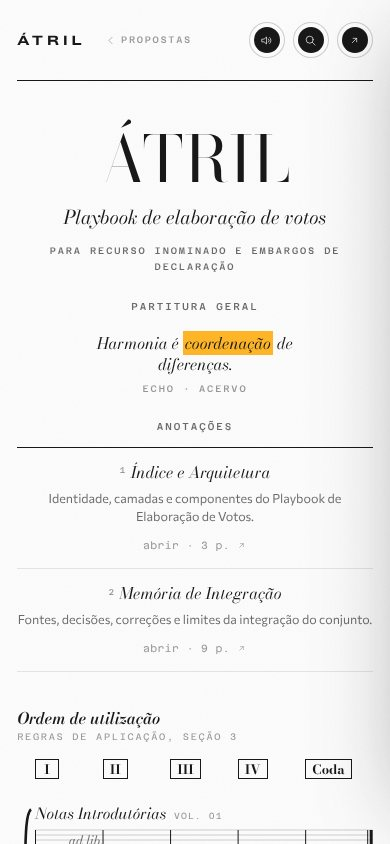
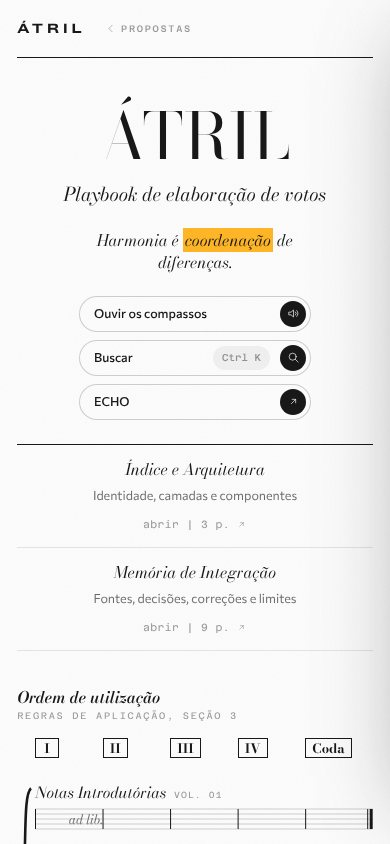
docs(atril): enxuga a folha de rosto da proposta B
- Elimina a instrumentação, o rótulo "Partitura geral", a assinatura
  "ECHO · Acervo", o título "Anotações" e a numeração das anotações.
- Encurta as anotações: "Identidade, camadas e componentes" e
  "Fontes, decisões, correções e limites".
- Ouvir, Buscar e ECHO saem da barra do topo e descem para a coluna
  da epígrafe; em tela de toque, o atalho Ctrl K some.
- Adota " | " como separador em toda a página.

Claude-Session: https://claude.ai/code/session_01GJcbAC3DcYgjKWACJqr4z9

diff --git a/assets/atril/fonte/propostas/b-partitura.html b/assets/atril/fonte/propostas/b-partitura.html
@@ -3,7 +3,7 @@
 <head>
 <meta charset="utf-8">
 <meta name="viewport" content="width=device-width, initial-scale=1, viewport-fit=cover">
-<title>ÁTRIL · Partitura geral</title>
+<title>ÁTRIL | Playbook de elaboração de votos</title>
 <link rel="preconnect" href="https://fonts.googleapis.com">
 <link rel="preconnect" href="https://fonts.gstatic.com" crossorigin>
 <link href="https://fonts.googleapis.com/css2?family=Azeret+Mono:wght@400;500&family=Bodoni+Moda:ital,opsz,wght@0,6..96,400..800;1,6..96,400..700&family=Commissioner:wght@300;400;500;600&family=Zalando+Sans+Expanded:wght@700&display=swap" rel="stylesheet">
@@ -52,21 +52,20 @@ button{font:inherit;color:inherit;background:none;border:0;padding:0;cursor:poin
 
 /* folha de rosto da partitura */
 .rosto{display:grid;grid-template-columns:minmax(170px,1fr) minmax(0,3.4fr) minmax(170px,1fr);align-items:start;gap:24px;padding:clamp(28px,6vh,72px) 0 clamp(26px,4.5vh,48px);border-top:1px solid var(--tinta)}
-.rosto-e{font:500 10px/1.7 var(--mono);letter-spacing:.2em;text-transform:uppercase;color:var(--grafite)}
-.epigrafe{margin-top:22px;max-width:24ch;font:italic 400 16px/1.35 var(--serif);color:var(--tinta);text-transform:none;letter-spacing:0}
+.epigrafe{margin:0;max-width:24ch;font:italic 400 16px/1.35 var(--serif);color:var(--tinta)}
 .epigrafe mark{background:var(--ambar);color:inherit;padding:0 .12em}
-.epigrafe small{display:block;margin-top:8px;font:500 9.5px/1 var(--mono);letter-spacing:.2em;text-transform:uppercase;color:var(--cinza)}
+.comandos{display:grid;gap:8px;width:min(100%,232px);margin-top:26px}
+.comandos .pil{justify-content:flex-start}
+.comandos .pil .t{margin-right:auto}
+@media (hover:none){.comandos kbd{display:none}}
 .titulo{text-align:center}
 .titulo h1{margin:0 auto;font:400 clamp(64px,9.6vw,156px)/.86 var(--serif);font-variation-settings:"opsz" 96;letter-spacing:.015em}
 .titulo .sub{margin:20px 0 0;font:italic 400 clamp(19px,2vw,30px)/1.2 var(--serif);color:var(--tinta)}
-.titulo .instr{margin:14px 0 0;font:500 9.5px/1.6 var(--mono);letter-spacing:.2em;text-transform:uppercase;color:var(--grafite)}
 .rosto-d{justify-self:end;width:min(100%,250px);text-align:right}
-.rosto-d .rot-a{display:block;margin-bottom:12px;font:500 10px/1.7 var(--mono);letter-spacing:.2em;text-transform:uppercase;color:var(--grafite)}
 .anot{list-style:none;margin:0;padding:0;border-top:1px solid var(--tinta)}
 .anot li{padding:12px 0 13px;border-bottom:1px solid var(--fio-2)}
 .anot .an{display:inline;font:italic 400 16px/1.25 var(--serif);transition:background .4s var(--mola)}
 .anot .an:hover,.anot .an:focus-visible,.anot .an[aria-current="page"]{background:linear-gradient(transparent 58%,var(--ambar) 58%,var(--ambar) 92%,transparent 92%)}
-.anot .an sup{font:500 8.5px/1 var(--mono);letter-spacing:.06em;color:var(--cinza);margin-right:5px;vertical-align:.5em}
 .anot p{margin:5px 0 6px;font:400 12.5px/1.45 var(--body);color:var(--grafite)}
 .anot .ab{display:inline-flex;align-items:center;gap:6px;font:400 10.5px/1 var(--mono);letter-spacing:.04em;color:var(--cinza);transition:color .4s var(--mola)}
 .anot .ab .ic{width:11px;height:11px}
@@ -193,12 +192,12 @@ button{font:inherit;color:inherit;background:none;border:0;padding:0;cursor:poin
   :root{--parte:0px}
   .voz .pt{display:none}
   .rosto{grid-template-columns:1fr;text-align:center}
-  .rosto-e,.rosto-d{text-align:center}.epigrafe{margin:18px auto 0}.rosto-d{justify-self:center;width:min(100%,360px)}
+  .rosto-e,.rosto-d{text-align:center}.epigrafe{margin:0 auto}.comandos{margin:22px auto 0}.rosto-d{justify-self:center;width:min(100%,360px)}
   .rosto-e{order:2}.titulo{order:1}.rosto-d{order:3}
 }
 @media (max-width:700px){
   :root{--nomes:0px;--chave:18px}
-  .pil .t,.pil kbd{display:none}.pil{padding:0 5px}
+  .parte-h .pil .t,.parte-h .pil kbd{display:none}.parte-h .pil{padding:0 5px}
   .voz{height:auto;grid-template-rows:auto 40px;padding-top:6px}
   .voz .nm{grid-column:2 / 4;grid-row:1;justify-self:start;padding:0 0 0 0;text-align:left}
   .voz .nm small{display:inline;margin-left:8px}
@@ -224,26 +223,25 @@ button{font:inherit;color:inherit;background:none;border:0;padding:0;cursor:poin
 <div class="pag">
   <header class="topo">
     <div style="display:flex;align-items:center;gap:18px"><a class="marca" href="#" aria-label="ÁTRIL, início">ÁTRIL</a><a class="volta" href="./"><svg class="ic" viewBox="0 0 24 24" aria-hidden="true"><path d="M15 6 9 12l6 6"/></svg>Propostas</a></div>
-    <div class="acoes">
-      <button class="pil" type="button" id="b-som" aria-pressed="false"><span class="t">Ouvir os compassos</span><span class="b"><svg class="ic" viewBox="0 0 24 24" aria-hidden="true"><path d="M4 9.5h3.5L12 5.5v13l-4.5-4H4z"/><path d="M15.5 9a4 4 0 0 1 0 6M18 6.5a7.5 7.5 0 0 1 0 11"/></svg></span></button>
-      <button class="pil" type="button" id="b-busca"><span class="t">Buscar</span><kbd>Ctrl K</kbd><span class="b"><svg class="ic" viewBox="0 0 24 24" aria-hidden="true"><circle cx="10.5" cy="10.5" r="6.5"/><path d="m15.5 15.5 5 5"/></svg></span></button>
-      <a class="pil" href="https://christiancozta.github.io/arco.html#echo"><span class="t">ECHO</span><span class="b"><svg class="ic" viewBox="0 0 24 24" aria-hidden="true"><path d="M8 16 16 8M9.5 8H16v6.5"/></svg></span></a>
-    </div>
   </header>
 
   <section class="rosto">
-    <div class="rosto-e">Partitura geral
-      <p class="epigrafe">Harmonia é <mark>coordenação</mark> de diferenças.<small>ECHO · Acervo</small></p>
+    <div class="rosto-e">
+      <p class="epigrafe">Harmonia é <mark>coordenação</mark> de diferenças.</p>
+      <nav class="comandos" aria-label="Comandos">
+        <button class="pil" type="button" id="b-som" aria-pressed="false"><span class="t">Ouvir os compassos</span><span class="b"><svg class="ic" viewBox="0 0 24 24" aria-hidden="true"><path d="M4 9.5h3.5L12 5.5v13l-4.5-4H4z"/><path d="M15.5 9a4 4 0 0 1 0 6M18 6.5a7.5 7.5 0 0 1 0 11"/></svg></span></button>
+        <button class="pil" type="button" id="b-busca"><span class="t">Buscar</span><kbd>Ctrl K</kbd><span class="b"><svg class="ic" viewBox="0 0 24 24" aria-hidden="true"><circle cx="10.5" cy="10.5" r="6.5"/><path d="m15.5 15.5 5 5"/></svg></span></button>
+        <a class="pil" href="https://christiancozta.github.io/arco.html#echo"><span class="t">ECHO</span><span class="b"><svg class="ic" viewBox="0 0 24 24" aria-hidden="true"><path d="M8 16 16 8M9.5 8H16v6.5"/></svg></span></a>
+      </nav>
     </div>
     <div class="titulo">
       <h1>ÁTRIL</h1>
       <p class="sub">Playbook de elaboração de votos</p>
-      <p class="instr">para Recurso Inominado e Embargos de Declaração</p>
     </div>
-    <aside class="rosto-d" aria-label="Anotações"><span class="rot-a">Anotações</span><ol class="anot" id="anot"></ol></aside>
+    <aside class="rosto-d" aria-label="Anotações"><ol class="anot" id="anot"></ol></aside>
   </section>
 
-  <section class="sistema" id="sistema" aria-label="Partitura geral do acervo">
+  <section class="sistema" id="sistema" aria-label="Partitura do acervo">
     <div class="coluna" id="coluna" aria-hidden="true"></div>
     <div class="batuta" id="batuta" aria-hidden="true"></div>
     <div class="linha cab">
@@ -254,7 +252,7 @@ button{font:inherit;color:inherit;background:none;border:0;padding:0;cursor:poin
     <div class="letra"><div class="linha"><div class="rot">Texto da ordem</div><div class="txt" id="letra"></div></div></div>
   </section>
 
-  <footer class="rodape"><span>Acervo do <b>ECHO</b> · Turma Recursal do TJPR</span><span><b>107</b> fundamentos · <b>2.758</b> assuntos · <b>730</b> dias de calendário · <b>6</b> modelos</span></footer>
+  <footer class="rodape"><span>Acervo do <b>ECHO</b> | Turma Recursal do TJPR</span><span><b>107</b> fundamentos | <b>2.758</b> assuntos | <b>730</b> dias de calendário | <b>6</b> modelos</span></footer>
 </div>
 
 <div class="veu" id="veu"></div>
@@ -278,7 +276,7 @@ var NAIPES=[
   {id:'vol-01',nome:'Notas Introdutórias',sub:'vol. 01',marca:'ad lib.',parte:'vol-01'},
   {id:'vol-02',nome:'Mapa Temático',sub:'vol. 02',marca:'ad lib.',parte:'vol-02'},
   {id:'vol-03',nome:'Afinação Processual',sub:'vol. 03',marca:'ad lib.',parte:'vol-03'},
-  {id:'guia',nome:'Guia de Estilo',sub:'vol. 04 · a forma',notas:[[4,23,'w'],[5,23,'w']],liga:[4,5],parte:'vol-04'}]},
+  {id:'guia',nome:'Guia de Estilo',sub:'vol. 04 | a forma',notas:[[4,23,'w'],[5,23,'w']],liga:[4,5],parte:'vol-04'}]},
  {n:'Governança',tipo:'colchete',vozes:[
   {id:'regras',nome:'Regras de Aplicação',sub:'coordena a ordem',notas:[[1,15.5],[2,15.5],[3,15.5],[4,15.5],[5,15.5]],parte:'pdf-regras'},
   {id:'criterios',nome:'Critérios Operacionais',sub:'ao final',notas:[[5,10.5]],parte:'pdf-criterios'}]},
@@ -290,6 +288,8 @@ var NAIPES=[
  ];
 /* Registro: fora do sistema, anotado à margem da folha de rosto. */
 var ANOT=[{id:'indice',parte:'pdf-indice'},{id:'memoria',parte:'pdf-memoria'}];
+P.indice=Object.assign({},P.indice,{lead:'Identidade, camadas e componentes'});
+P.memoria=Object.assign({},P.memoria,{lead:'Fontes, decisões, correções e limites'});
 var MARCAS=[['I','identificar'],['II','admissibilidade'],['III','fundamentos'],['IV','resultado'],['Coda','revisão']];
 var LETRA=A.passos.concat(['Ao final, aplicar os critérios operacionais e conferir a correspondência entre fundamentação, dispositivo e ementa.']);
 
@@ -300,13 +300,13 @@ $('#naipes').innerHTML=NAIPES.map(function(g){
   g.vozes.map(function(v){
     var p=v.parte?P[v.parte]:null;
     return '<div class="linha voz" data-id="'+v.id+'"><span></span><a class="nm" href="#'+v.id+'"><b>'+v.nome+'</b><small>'+v.sub+'</small></a><svg class="pauta" data-v="'+v.id+'" aria-hidden="true"></svg>'+
-      (p?'<a class="pt" href="'+p.url+'" target="_blank" rel="noopener" aria-label="Abrir '+v.nome+' em PDF, '+p.paginas+' páginas">abrir · '+p.paginas+' p. '+SETA+'</a>':'<span></span>')+'</div>';
+      (p?'<a class="pt" href="'+p.url+'" target="_blank" rel="noopener" aria-label="Abrir '+v.nome+' em PDF, '+p.paginas+' páginas">abrir | '+p.paginas+' p. '+SETA+'</a>':'<span></span>')+'</div>';
   }).join('')+'</div>';
 }).join('');
 var VOZ={}; NAIPES.forEach(function(g){g.vozes.forEach(function(v){v.naipe=g.n;VOZ[v.id]=v})});
 $('#anot').innerHTML=ANOT.map(function(a,i){var m=P[a.id],p=P[a.parte];
-  return '<li><a class="an" href="#'+a.id+'" data-id="'+a.id+'"><sup>'+(i+1)+'</sup>'+m.nome+'</a><p>'+m.lead+'</p>'+
-    '<a class="ab" href="'+p.url+'" target="_blank" rel="noopener" aria-label="Abrir '+m.nome+' em PDF, '+p.paginas+' páginas">abrir · '+p.paginas+' p. '+SETA+'</a></li>'}).join('');
+  return '<li><a class="an" href="#'+a.id+'" data-id="'+a.id+'">'+m.nome+'</a><p>'+m.lead+'</p>'+
+    '<a class="ab" href="'+p.url+'" target="_blank" rel="noopener" aria-label="Abrir '+m.nome+' em PDF, '+p.paginas+' páginas">abrir | '+p.paginas+' p. '+SETA+'</a></li>'}).join('');
 
 function desenha(){
   var svgs=document.querySelectorAll('svg.pauta');
@@ -392,10 +392,10 @@ function docHTML(m){
     return '<div class="sec"><h3>'+s[0]+'</h3><div class="princ">'+s[1].map(function(p){return '<div><b>'+p[0]+'</b><span>'+p[1]+'</span></div>'}).join('')+'</div></div>'}).join('')+'</div>';
   else corpo='<ol class="secoes">'+m.secoes.map(function(s){var k=s.indexOf('. ');return '<li><span>'+s.slice(0,k)+'</span>'+s.slice(k+2)+'</li>'}).join('')+'</ol>';
   return '<h2 class="p-t" id="p-t">'+m.nome+'</h2><p class="p-l">'+m.lead+'</p><div class="p-meta"><span>'+m.camada+'</span><span>'+m.secoes.length+' seções</span><span>05/10/2026</span></div><div class="regua"></div>'+corpo+
-  '<div class="botoes"><a class="cta" href="'+m.pdf.url+'" target="_blank" rel="noopener">Abrir o PDF · '+m.pdf.paginas+' p.<span class="b">'+SETA+'</span></a></div>';
+  '<div class="botoes"><a class="cta" href="'+m.pdf.url+'" target="_blank" rel="noopener">Abrir o PDF | '+m.pdf.paginas+' p.<span class="b">'+SETA+'</span></a></div>';
 }
 function volHTML(m){
-  return '<h2 class="p-t" id="p-t">'+m.nome+'</h2><p class="p-l">'+m.sub+'.</p><div class="p-meta"><span>Coleção da Turma Recursal</span><span>'+m.volume+'</span><span>PDF · '+m.paginas+' páginas</span></div><div class="regua"></div>'+
+  return '<h2 class="p-t" id="p-t">'+m.nome+'</h2><p class="p-l">'+m.sub+'.</p><div class="p-meta"><span>Coleção da Turma Recursal</span><span>'+m.volume+'</span><span>PDF | '+m.paginas+' páginas</span></div><div class="regua"></div>'+
   '<p class="nota" style="font-size:15px;color:var(--grafite)">Volume diagramado da coleção, para leitura contínua e impressão. Na partitura, os volumes tocam <i>ad libitum</i>: consultam-se a qualquer passo, fora da ordem.</p>'+
   '<div class="botoes"><a class="cta" href="'+m.url+'" target="_blank" rel="noopener">Abrir '+m.volume.toLowerCase()+'<span class="b">'+SETA+'</span></a>'+(m.le?'<a class="cta cl" href="#guia">Ler o Guia na tela<span class="b">'+SETA+'</span></a>':'')+'</div>';
 }
@@ -407,7 +407,7 @@ function ferrHTML(id){
   if(id==='fundamentos') return '<h2 class="p-t" id="p-t">Fundamentos</h2><p class="p-l">Repertório argumentativo com gatilhos, requisitos e limites.</p><div class="regua"></div>'+
     '<label class="busca"><input id="f-q" placeholder="negativação, voo, gratuidade" autocomplete="off" aria-label="Buscar fundamentos"><span id="f-ct"></span></label><ul class="lista" id="f-l"></ul>';
   if(id==='ementario') return '<h2 class="p-t" id="p-t">Ementário</h2><p class="p-l">Taxonomia, códigos, descrições e formulações de referência.</p><div class="regua"></div>'+
-    '<ul class="lista">'+A.ementario.map(function(e){return '<li><code>'+e.cod+'</code><div><b>'+e.desc+'</b><small>'+e.ramo+' · já abordado pela TR: '+e.tr+'</small></div></li>'}).join('')+'</ul><p class="nota">Amostra de 5 dos 2.758 registros neste protótipo.</p>';
+    '<ul class="lista">'+A.ementario.map(function(e){return '<li><code>'+e.cod+'</code><div><b>'+e.desc+'</b><small>'+e.ramo+' | já abordado pela TR: '+e.tr+'</small></div></li>'}).join('')+'</ul><p class="nota">Amostra de 5 dos 2.758 registros neste protótipo.</p>';
   return '<h2 class="p-t" id="p-t">Templates</h2><p class="p-l">Montador de minutas de RI e ED, com blocos condicionais e lacunas.</p><div class="regua"></div>'+
     '<ul class="lista">'+A.templates.map(function(t){return '<li><code>'+t[0].split('-')[0]+'</code><div><b>'+t[0]+'</b><small>'+t[1]+'</small></div></li>'}).join('')+'</ul><div class="botoes"><span class="cta">Abrir o montador<span class="b">'+SETA+'</span></span></div>';
 }
@@ -430,7 +430,7 @@ function abre(id){
   var v=VOZ[id], m=P[id];
   if(!v&&!m){fecha();return}
   document.querySelectorAll('.voz,.an').forEach(function(el){el.toggleAttribute('aria-current',el.dataset.id===id)});
-  $('#parte-r').textContent=v&&v.ferr?'Ferramenta · '+v.nome:v?v.naipe+' · '+v.nome:'Anotação · '+m.nome;
+  $('#parte-r').textContent=v&&v.ferr?'Ferramenta | '+v.nome:v?v.naipe+' | '+v.nome:'Anotação | '+m.nome;
   pc.innerHTML=v&&v.ferr?ferrHTML(id):m.tipo==='manual'?volHTML(m):docHTML(m);
   liga(id); pc.scrollTop=0;
   parte.classList.add('on'); parte.setAttribute('aria-hidden','false'); veu.classList.add('on');

diff --git a/assets/atril/fonte/propostas/index.html b/assets/atril/fonte/propostas/index.html
@@ -217,14 +217,14 @@ td b{color:var(--tinta);font-weight:600}
     <div class="galeria">
       <figure class="quadro"><div class="moldura"><img src="img/b-compasso.jpg" alt="Proposta Partitura geral ajustada: título ÁTRIL em Bodoni, anotações à direita e o sistema com Coleção, Governança e Toolkit, com o compasso III destacado em âmbar."></div><figcaption>Compasso III em foco: Regras, Fundamentos e Ementário soam juntos</figcaption></figure>
       <div class="pilha">
-        <figure class="quadro"><div class="moldura"><img src="img/b-capa.jpg" alt="Folha de rosto com o título ÁTRIL e as anotações do Registro."></div><figcaption>Folha de rosto com as anotações</figcaption></figure>
+        <figure class="quadro"><div class="moldura"><img src="img/b-capa.jpg" alt="Folha de rosto com o título ÁTRIL, a epígrafe e os comandos à esquerda e as anotações do Registro à direita."></div><figcaption>Folha de rosto: comandos e anotações</figcaption></figure>
         <figure class="quadro"><div class="moldura"><img src="img/b-parte.jpg" alt="A anotação Índice e Arquitetura aberta sobre a partitura."></div><figcaption>Uma anotação aberta sobre a partitura</figcaption></figure>
       </div>
       <figure class="quadro"><div class="moldura"><img src="img/b-m.jpg" alt="Proposta Partitura geral no celular."></div><figcaption>Celular</figcaption></figure>
     </div>
     <div class="texto-p">
       <div>
-        <p>A página abre como a folha de rosto de uma partitura, sobre o papel #FCFCFC: <b>ÁTRIL</b> em Bodoni Moda, o subtítulo <i>Playbook de elaboração de votos</i> e a instrumentação embaixo. À esquerda, a epígrafe do ECHO, <i>Harmonia é coordenação de diferenças</i>, com o marca-texto âmbar da mãe. À direita, no lugar das linhas de origem, ficam as <b>anotações</b>: Índice e Arquitetura e Memória de Integração, o Registro, que sai do sistema porque não toca na ordem.</p>
+        <p>A página abre como a folha de rosto de uma partitura, sobre o papel #FCFCFC: <b>ÁTRIL</b> em Bodoni Moda e o subtítulo <i>Playbook de elaboração de votos</i>. À esquerda, a epígrafe do ECHO, <i>Harmonia é coordenação de diferenças</i>, com o marca-texto âmbar da mãe, e logo abaixo os <b>comandos</b>: ouvir os compassos, buscar e voltar ao ECHO. À direita, no lugar das linhas de origem, ficam duas <b>anotações</b> sem título: Índice e Arquitetura e Memória de Integração, o Registro, que sai do sistema porque não toca na ordem.</p>
         <p>O sistema é uma <b>matriz de uso verdadeira</b>. Os compassos são a ordem da seção 3 das Regras de Aplicação (I a IV e a coda de revisão). O primeiro naipe é a <b>Coleção</b>, presa pela chaveta do piano, com os volumes 01 a 03 <i>ad libitum</i> e o Guia de Estilo por último, sustentado de IV até a coda. Logo abaixo, a <b>Governança</b>: as Regras como pedal em todos os compassos e os Critérios na coda. Depois o <b>Toolkit</b>: Calendário em II, Fundamentos e Ementário em III, Templates em IV.</p>
         <p>Ler na vertical é ler um passo. Passar o cursor por um compasso acende a coluna e esmaece o resto; com o som ligado, o compasso soa como acorde. As alturas foram escolhidas para que <b>III soe Dó maior, IV fique suspenso e a coda resolva</b>. Clicar num nome abre o material sobre a partitura; <b>abrir</b>, ao fim de cada pauta, leva ao PDF.</p>
       </div>
@@ -293,7 +293,7 @@ td b{color:var(--tinta);font-weight:600}
         <div>
           <p><b>A Partitura geral é a única em que a metáfora carrega informação.</b> Não é um piano desenhado nem uma onda bonita: é a ordem de utilização das Regras posta na forma que um regente lê, e ler na vertical responde à pergunta prática de quem redige ("o que eu uso neste passo?"). Ela é clara para leitura longa, diferencia o ATRIL do ECHO sem sair da família e custa menos que as outras, porque troca a geometria de perspectiva por SVG plano.</p>
           <p><b>Se o piano for inegociável, A.</b> É a evolução direta do que existe, mantém a Regra do Instrumento Inteiro e conserta, uma a uma, as nove causas do diagnóstico. C é a melhor vitrine e a pior mesa de trabalho; serve se o ATRIL for antes de tudo uma peça do portfólio.</p>
-          <p>A versão ajustada sobe a Coleção para o primeiro naipe, terminando no Guia, põe a Governança logo depois, tira o Registro do sistema para as anotações da folha de rosto, intitula a página ÁTRIL e volta ao fundo #FCFCFC.</p>
+          <p>A versão ajustada sobe a Coleção para o primeiro naipe, terminando no Guia, põe a Governança logo depois, tira o Registro do sistema para as anotações da folha de rosto, intitula a página ÁTRIL, leva os comandos para a coluna da epígrafe, enxuga a folha de rosto e volta ao fundo #FCFCFC.</p>
         </div>
       </div>
     </div>
